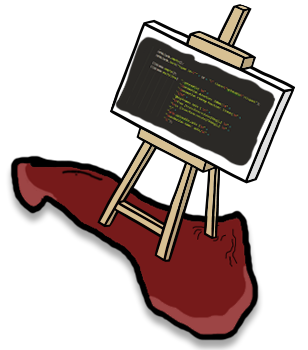
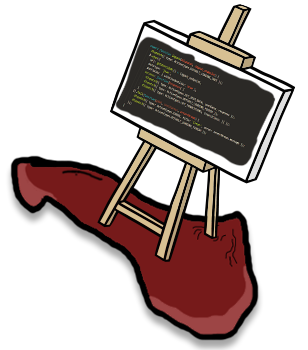
Replaced Monarch picture, updated about link.

diff --git a/index.html b/index.html
@@ -57,7 +57,7 @@
                 </a>
             </div>
             <div class="continent about" data-activates="about_info" title="Click to enter the void.">
-                <a href="bands.html" target="_blank" class="hoverLink">
+                <a href="https://github.com/MiloradFilipovic" target="_blank" class="hoverLink">
                     <img class="continent_pic" src="images/kontinent_about.png">
                     <img src="images/beam.png" class="beam blinking_beam">
                 </a>
